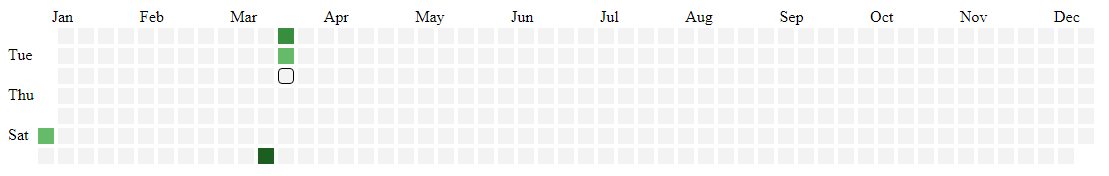
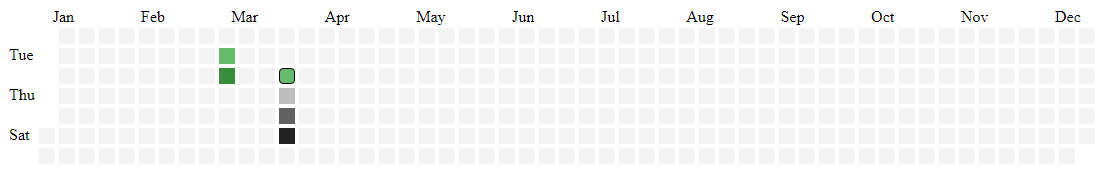
feat: added colors for future events

diff --git a/src/components/Month.vue b/src/components/Month.vue
@@ -24,6 +24,7 @@ export default {
     pastEventsColors: Array,
     cellSize: String,
     yearNumber: Number,
+    futureEventColors: Array,
   },
   computed: {
     selectedMonthDate() {
@@ -41,7 +42,6 @@ export default {
           firstDay++
           break
       }
-
       let date = 1
       const month = []
       for (let i = 0; i < 6; i++) {
@@ -70,7 +70,7 @@ export default {
             dayOptions.style = this.calcColor(date)
             date++
           } else if (curentYearDay < selectedYearDay) {
-            dayOptions.style = this.calcColor(date)
+            dayOptions.style = this.calcColor(date, true)
             date++
           }
           row.push(dayOptions)
@@ -84,16 +84,16 @@ export default {
     },
   },
   methods: {
-    calcColor(date) {
+    calcColor(date, isFuture) {
       const eventCount =
         this.eventsDays?.[this.dayjs().year(this.yearNumber).month(this.monthNumber).date(date).format('YYYY-MM-DD')]
       let color = '#f3f3f3;'
       if (eventCount === 1) {
-        color = this.pastEventsColors[0]
+        color = isFuture ? this.futureEventColors[0] : this.pastEventsColors[0]
       } else if (eventCount === 2) {
-        color = this.pastEventsColors[1]
+        color = isFuture ? this.futureEventColors[1] : this.pastEventsColors[1]
       } else if (eventCount > 2) {
-        color = this.pastEventsColors[2]
+        color = isFuture ? this.futureEventColors[2] : this.pastEventsColors[2]
       }
       return `background-color: ${color};`
     },

diff --git a/src/components/Year.vue b/src/components/Year.vue
@@ -49,6 +49,7 @@ export default {
     cellSize: String,
     yearNumber: Number,
     hideWeekNames: Boolean,
+    futureEventColors: Array,
   },
   data() {
     return {
@@ -125,6 +126,9 @@ export default {
             date++
           } else if (date > this.lastYearDay.dayOfYear()) {
             break
+          } else if (date > selectedDayOfYear) {
+            dayOptions.style = this.calcColor(date, true)
+            date++
           } else {
             dayOptions.style = this.calcColor(date)
             date++
@@ -143,15 +147,15 @@ export default {
     },
   },
   methods: {
-    calcColor(date) {
+    calcColor(date, isFuture) {
       const eventCount = this.eventsDays?.[this.dayjs().year(this.yearNumber).dayOfYear(date).format('YYYY-MM-DD')]
       let color = '#f3f3f3;'
       if (eventCount === 1) {
-        color = this.pastEventsColors[0]
+        color = isFuture ? this.futureEventColors[0] : this.pastEventsColors[0]
       } else if (eventCount === 2) {
-        color = this.pastEventsColors[1]
+        color = isFuture ? this.futureEventColors[1] : this.pastEventsColors[1]
       } else if (eventCount > 2) {
-        color = this.pastEventsColors[2]
+        color = isFuture ? this.futureEventColors[2] : this.pastEventsColors[2]
       }
       return `background-color: ${color};`
     },

diff --git a/src/vue-hm-calendar.vue b/src/vue-hm-calendar.vue
@@ -10,6 +10,7 @@
       :pastEventsColors="pastEventsColors"
       :cellSize="cellSize"
       :yearNumber="yearNumber"
+      :futureEventColors="futureEventColors"
     />
     <year
       v-if="mode === 'year'"
@@ -21,6 +22,7 @@
       :yearNumber="yearNumber"
       :firstWeekDay="firstWeekDay"
       :hideHeader="hideHeader"
+      :futureEventColors="futureEventColors"
     />
   </div>
 </template>
@@ -78,6 +80,7 @@ export default {
   data() {
     return {
       dayjs: dayjs,
+      futureEventColors: ['#BDBDBD', '#616161', '#212121'],
     }
   },
 }
